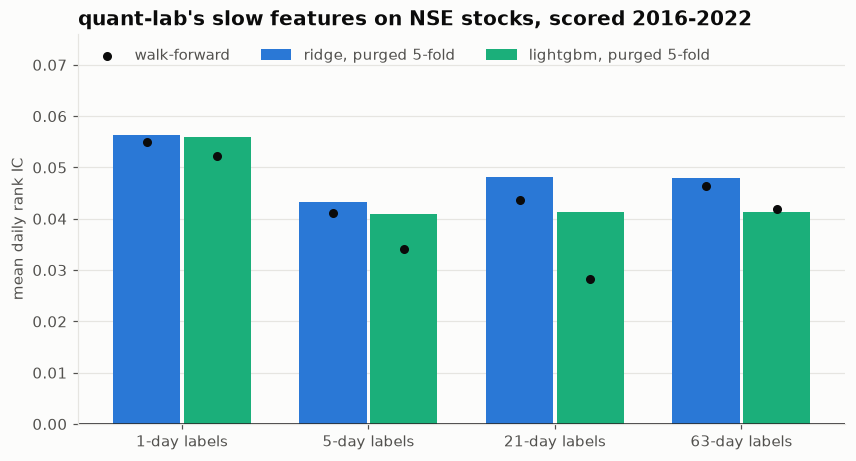
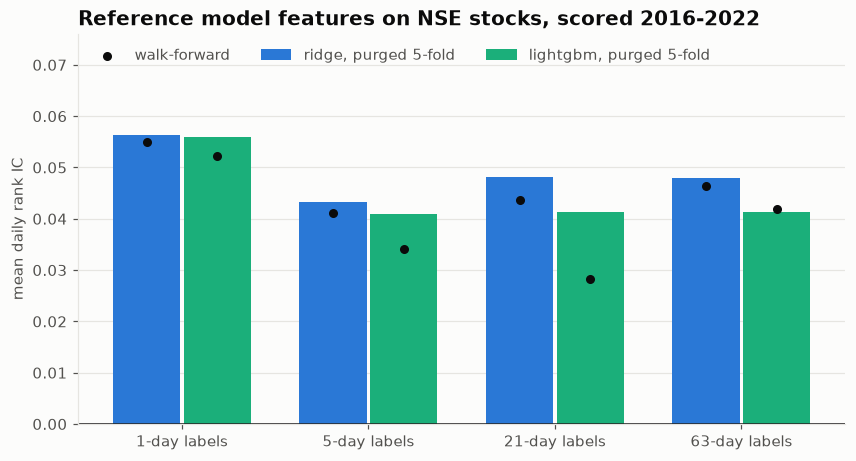
docs: describe the private model as the reference model in the README, page, charts and code

Changed region(s): [[0.0911, 0.0, 0.9112, 0.0607]]

diff --git a/src/pcv/lab.html b/src/pcv/lab.html
@@ -86,7 +86,7 @@ fresh data from the same process. Average of 10 panels.</p>
 })();
 </script>
 <h3 id="baseline">On real NSE stocks: two ways of testing, same days</h3>
-<p class="note">The reference model's ten slow stock features, rebuilt from the archive and matched to the reference model's own
+<p class="note">The reference model's ten slow stock features, rebuilt from the archive and matched to the original's
 values row for row, scored Jan 2016 – Dec 2022 (mean daily rank IC). Purged 5-fold trains on data from both
 sides of each test block; walk-forward trains only on the past, retraining every 6 months as the reference model does.
 Which of the two predicts the real later score is the next test.</p>
@@ -128,7 +128,7 @@ each method's favourite model per label length.</p>
 day and the test block varied. “No gap minus gap h” is what training right up to the test adds to the score: the
 leak. The reference model leaves h + 6 days.</p>
 <div class="table-scroll"><table class="data" id="s-table">
-  <thead><tr><th scope="col">Label length</th><th scope="col">Model</th><th scope="col">IC, no gap</th><th scope="col">IC, gap h</th><th scope="col">IC, the reference model's gap</th><th scope="col">No gap minus gap h</th></tr></thead>
+  <thead><tr><th scope="col">Label length</th><th scope="col">Model</th><th scope="col">IC, no gap</th><th scope="col">IC, gap h</th><th scope="col">IC, reference gap</th><th scope="col">No gap minus gap h</th></tr></thead>
   <tbody></tbody>
 </table></div>
 <script>

diff --git a/src/pcv/page.html b/src/pcv/page.html
@@ -138,7 +138,7 @@ $sections
 <p>Rebuilt by GitHub Actions when the code changes. The layouts are computed offline by
 <code>pcv report splits</code> on the lake's trading calendar ($first to $last).</p>
 <p>Data: NSE daily bhavcopy archive, kept locally; the page carries only derived split layouts. Data
-after 26 Nov 2025 is never read (the reference model's sealed holdout); rules are chosen on data to Dec 2022.</p>
+after 26 Nov 2025 is never read (kept as a sealed holdout); rules are chosen on data to Dec 2022.</p>
 <p>Research only, not investment advice.</p>
 </footer>
 <script>

diff --git a/src/pcv/reports.py b/src/pcv/reports.py
@@ -73,7 +73,8 @@ def report_splits(out_dir: Path) -> dict:
             f"purge drops {lost[h][0]:.1%} of the training days plain k-fold uses (rows whose "
             f"labels overlap the test labels), purge + 5-day embargo {lost[h][1]:.1%}; "
             f"walk-forward trains "
-            f"on {np.mean(w0):.0f} days with an exact purge and {np.mean(w6):.0f} with the reference model's "
+            f"on {np.mean(w0):.0f} days with an exact purge and {np.mean(w6):.0f} with the "
+            f"reference model's "
             f"h + 5 cut")
 
     fig, axes = plt.subplots(1, 2, figsize=(12, 4.6), gridspec_kw={"width_ratios": [1.5, 1]})
@@ -208,7 +209,7 @@ CHECK_END = "2025-08-01"  # rows whose 63-day labels are complete inside the dat
 
 
 def lake_models():
-    """The reference model's two models: Ridge on gaps filled with 0, LightGBM on gaps as they are."""
+    """The reference model's two models: Ridge on gaps filled with 0, LightGBM on gaps as is."""
     from lightgbm import LGBMRegressor
     from sklearn.impute import SimpleImputer
     from sklearn.linear_model import Ridge
@@ -262,7 +263,7 @@ def features_chart(rows: list[dict], out_dir: Path) -> None:
     ax.axhline(0, color=plots.TEXT, lw=1)
     ax.set_xticks(x, [f"{h}-day labels" for h in HORIZONS])
     ax.set_ylabel("mean daily rank IC")
-    ax.set_title("the reference model's slow features on NSE stocks, scored 2016-2022", loc="left")
+    ax.set_title("Reference model features on NSE stocks, scored 2016-2022", loc="left")
     ax.set_ylim(0, max(max(r["purged"], r["walk"]) for r in rows) * 1.35)
     ax.legend(frameon=False, ncol=3, loc="upper left")
     ax.grid(axis="x", visible=False)
@@ -270,8 +271,9 @@ def features_chart(rows: list[dict], out_dir: Path) -> None:
 
 
 def report_features(out_dir: Path) -> dict:
-    """The reference model's slow features and labels rebuilt from the lake and matched against its own
-    features.parquet; then a baseline for Ridge and LightGBM on data up to Dec 2022."""
+    """The reference model's slow features and labels rebuilt from the lake and matched against
+    the original implementation's features.parquet; then a baseline for Ridge and LightGBM on
+    data up to Dec 2022."""
     import os
 
     import pandas as pd
@@ -285,13 +287,13 @@ def report_features(out_dir: Path) -> dict:
     res = {"table": f"{len(f):,} universe rows, {f['date'].min():%d %b %Y} - "
                     f"{f['date'].max():%d %b %Y}, {f['symbol'].nunique()} stocks"}
     cols = FEAT_A + [f"xs_{h}" for h in HORIZONS] + [f"y_{h}" for h in HORIZONS]
-    q = pd.read_parquet(os.environ["PCV_QL_FEATURES"], columns=["date", "symbol"] + cols,
+    q = pd.read_parquet(os.environ["PCV_REF_FEATURES"], columns=["date", "symbol"] + cols,
                         filters=[("date", "<=", pd.Timestamp(CHECK_END))])
     m = f[f["date"] <= CHECK_END].merge(q, on=["date", "symbol"], suffixes=("", "_q"))
     worst = max(float((m[c].astype(float) - m[c + "_q"].astype(float)).abs().max())
                 for c in cols)
     nan_diff = max(float((m[c].isna() != m[c + "_q"].isna()).mean()) for c in cols)
-    res["port check against the reference model's features.parquet"] = (
+    res["port check against the original features.parquet"] = (
         f"{len(m):,} shared rows of {int((f['date'] <= CHECK_END).sum()):,} (to {CHECK_END}), "
         f"{len(cols)} columns: largest gap {worst:.1e}, missing-value mismatch {nan_diff:.2%}")
 
@@ -305,7 +307,7 @@ def report_features(out_dir: Path) -> dict:
             wf = cv_score(mk, p, BlockWalkForward(starts, h, 6))
             rows.append({"h": h, "model": mname, "purged": pk, "walk": wf})
             res[f"h = {h}, {mname}"] = (f"IC on Jan 2016 - Dec 2022: purged 5-fold {pk:+.4f}; "
-                                        f"reference-style walk-forward (6-month blocks, embargo 6) "
+                                        f"reference walk-forward (6-month blocks, embargo 6) "
                                         f"{wf:+.4f}")
 
     features_chart(rows, out_dir)
@@ -544,7 +546,7 @@ def report_sizing(out_dir: Path) -> dict:
                 f"{max(w[g] for g in w if g >= h):+.4f}")
     qok = all(r["t"] < 2 for r in rows
               if r["kind"] == "walk-forward" and r["setting"] == r["h"] + 6)
-    res["the reference model's gap (h + 6 days before the test block)"] = (
+    res["reference gap (h + 6 days before the test block)"] = (
         "not detectably above the widest gap for every label length and model" if qok
         else "detectably above the widest gap somewhere: see the lines above")
     sizing_chart(rows, out_dir)
@@ -569,7 +571,7 @@ def sizing_chart(rows: list[dict], out_dir: Path) -> None:
         ax.set_xlabel("gap before test (trading days)")
     axes[0].set_ylabel("walk-forward IC, 2016-2022")
     axes[0].legend(frameon=False)
-    fig.text(0.99, 0.01, "dashed: the reference model's gap (h + 6)", ha="right", color=plots.TEXT_2,
+    fig.text(0.99, 0.01, "dashed: reference gap (h + 6)", ha="right", color=plots.TEXT_2,
              fontsize=9)
     fig.subplots_adjust(wspace=0.12, bottom=0.18)
     plots.save(fig, out_dir, "sizing")

diff --git a/src/pcv/split.py b/src/pcv/split.py
@@ -55,8 +55,8 @@ class PurgedKFold:
 class WalkForward:
     """Train only on the past. The day is cut into `n_splits` blocks; each block after the first is
     tested on everything before it, ending h + embargo days before the test starts, so the last
-    training label ends before the first test label begins. The reference model's rule (train on dates before
-    day[first test - (h + 5)]) is embargo = 6."""
+    training label ends before the first test label begins. The reference rule (train on dates
+    before day[first test - (h + 5)]) is embargo = 6."""
 
     def __init__(self, n_splits: int = 5, h: int = 0, embargo: int = 0):
         self.n_splits, self.h, self.embargo = n_splits, h, embargo
@@ -104,9 +104,9 @@ class CombinatorialPurged:
 
 
 class BlockWalkForward:
-    """Walk-forward on fixed calendar blocks (e.g. every 6 months, as the reference model retrains): block i
-    runs from starts[i] to the day before starts[i+1] (the last to the end); training ends h +
-    embargo days before the block starts."""
+    """Walk-forward on fixed calendar blocks (e.g. every 6 months, as the reference model
+    retrains): block i runs from starts[i] to the day before starts[i+1] (the last to the end);
+    training ends h + embargo days before the block starts."""
 
     def __init__(self, starts: list[int], h: int = 0, embargo: int = 0):
         self.starts, self.h, self.embargo = list(starts), h, embargo

diff --git a/src/pcv/site.py b/src/pcv/site.py
@@ -39,8 +39,8 @@ the close h trading days later, so it depends on days day+1 to day+h.</li>
 <li>Purged k-fold: the days are cut into blocks; one block is the test set. A training day is
 dropped when its label window overlaps the test days’ label windows. An embargo drops a few more
 days after the test labels end, for features that move slowly.</li>
-<li>Walk-forward trains only on the past and stops h + embargo days before the test. The reference model’s
-rule is the same with a 6-day embargo.</li>
+<li>Walk-forward trains only on the past and stops h + embargo days before the test. The reference
+model’s rule is the same with a 6-day embargo.</li>
 <li>Combinatorial purged CV tests every choice of 2 of 6 blocks, purged around each, and joins the
 pieces into 5 complete backtest paths.</li>
 </ul>"""

diff --git a/src/pcv/data.py b/src/pcv/data.py
@@ -1,12 +1,12 @@
 """The local NSE bhavcopy lake (PCV_LAKE_DIR), read with a date filter so nothing after LAST_DAY
-is ever loaded: the reference model keeps the last 365 days before its latest data as a sealed holdout."""
+is ever loaded: the last 365 days before the latest data stay a sealed holdout."""
 
 import os
 from pathlib import Path
 
 import pandas as pd
 
-LAST_DAY = "2025-11-26"  # the reference model's holdout starts the day after
+LAST_DAY = "2025-11-26"  # the sealed holdout starts the day after
 PICK_END = "2022-12-31"  # every rule is chosen on data up to here; 2023 on is checked once
 START = "2013-01-01"
 

diff --git a/tests/test_split.py b/tests/test_split.py
@@ -73,7 +73,7 @@ def test_walkforward_train_ends_purge_plus_embargo_before_test():
     first = min(d[sp[0][1]])
     assert max(d[sp[0][0]]) == first - 5  # its label ends on the day before the test labels start
     sp6 = list(WalkForward(5, h=5, embargo=6).split(None, groups=d))
-    assert max(d[sp6[0][0]]) == first - 11  # the reference model's cut: train dates < day[first - (h + 5)]
+    assert max(d[sp6[0][0]]) == first - 11  # the reference cut: train dates < day[first - (h + 5)]
     assert all(max(d[tr]) < min(d[te]) for tr, te in sp6)
 
 

diff --git a/src/pcv/features.py b/src/pcv/features.py
@@ -1,5 +1,5 @@
-"""The reference model's slow stock features (FEAT_A) and labels, rebuilt from the lake with the same
-formulas (the original implementation), never reading past LAST_DAY."""
+"""The reference model's slow stock features (FEAT_A) and labels, rebuilt from the lake with the
+same formulas as the original implementation, never reading past LAST_DAY."""
 
 import numpy as np
 import pandas as pd

diff --git a/README.md b/README.md
@@ -73,15 +73,15 @@ gradient-boosted trees; note the two charts' different scales.
 
 <a href="docs/img/features.png"><picture><source media="(prefers-reduced-motion: reduce)" srcset="docs/img/features.png"><img src="docs/img/features.gif" alt="Mean daily rank IC of the reference model's slow features by label length, ridge and LightGBM, purged five-fold against walk-forward" width="720"></picture></a>
 
-the reference model's ten slow stock features (momentum over 1, 6 and 12 months, distance from the 50- and 200-day
+The reference model's ten slow stock features (momentum over 1, 6 and 12 months, distance from the 50- and 200-day
 averages, 20- and 252-day volatility, 60-day beta and idiosyncratic volatility against NIFTY, 63-day
 turnover) and its labels were rebuilt from the archive with the same formulas: universe rows only, each
 feature clipped at the 1st and 99th percentile and ranked across stocks each day. Then Ridge and LightGBM
-(the reference model's settings, on these features only; the reference model's LightGBM also sees market-wide features) were
+(the reference settings, on these features only; the reference LightGBM also sees market-wide features) were
 scored on the rule-picking data, Jan 2016 – Dec 2022, as mean daily rank IC, by purged 5-fold and by
-reference-style walk-forward (retrained every 6 months, training ending h + 6 days before each block).
+the reference model's walk-forward (retrained every 6 months, training ending h + 6 days before each block).
 
-- **The rebuild matches the reference model row for row.** All 570,800 shared rows up to Aug 2025 and all 18
+- **The rebuild matches the original row for row.** All 570,800 shared rows up to Aug 2025 and all 18
   feature and label columns agree, largest gap 0.0, no mismatch in missing values.
 - **The features carry a steady signal.** Ridge: IC +0.056 (1-day labels), +0.043 (5-day), +0.048
   (21-day), +0.048 (63-day) under purged 5-fold.
@@ -122,7 +122,7 @@ data, so the t values are rough.
 <a href="docs/img/sizing.png"><picture><source media="(prefers-reduced-motion: reduce)" srcset="docs/img/sizing.png"><img src="docs/img/sizing.gif" alt="Walk-forward IC against the gap before the test block, for 1-, 5-, 21- and 63-day labels, ridge and LightGBM" width="720"></picture></a>
 
 On data to Dec 2022 only (the 2023 – 2025 results of finding 4 were not used), ridge and LightGBM on all ten
-features were scored by reference-style walk-forward with the gap before each test block set to 0, h,
+features were scored by the reference model's walk-forward with the gap before each test block set to 0, h,
 h + 6 (the reference model's), 2h and 3h days, and by purged 5-fold with purges of 0, h/2 and h days and embargoes
 of 0, 6, h and 2h. The decision rule was written down before the run (`plan-topic5`): the needed size is
 the smallest setting whose daily IC is not detectably above the widest setting's (paired t below 2, with
@@ -153,8 +153,8 @@ uv run pytest
 ```
 
 The findings need a local NSE bhavcopy archive with `panel.parquet` (`PCV_LAKE_DIR`); it is not committed,
-and nothing after 26 Nov 2025 is read from it. `pcv report features` also needs the reference model's
-`features.parquet` for the match check (`PCV_QL_FEATURES`). Tests run on hand-made cases.
+and nothing after 26 Nov 2025 is read from it. `pcv report features` also needs the original
+implementation's `features.parquet` for the match check (`PCV_REF_FEATURES`), kept locally. Tests run on hand-made cases.
 
 ## Design
 
@@ -165,7 +165,7 @@ and nothing after 26 Nov 2025 is read from it. `pcv report features` also needs 
 - `src/pcv/synth.py`, `evaluate.py`: synthetic panels with a known edge; daily rank IC and out-of-fold scoring.
 - `src/pcv/reports.py`, `plots.py`, `site.py`: report numbers and charts, chart style, the lab page.
 - Conventions: a row's label covers days day+1 to day+h; rules are chosen on data up to Dec 2022 and
-  checked once on Jan 2023 – Nov 2025; the reference model's last 365 days (from 27 Nov 2025) are never read.
+  checked once on Jan 2023 – Nov 2025; the last 365 days (from 27 Nov 2025) are never read, kept as a sealed holdout.
 - Data: NSE daily bhavcopy archive, local only.
 - Charts: every chart is a PNG plus an animated GIF made by `pcv report`.
 
